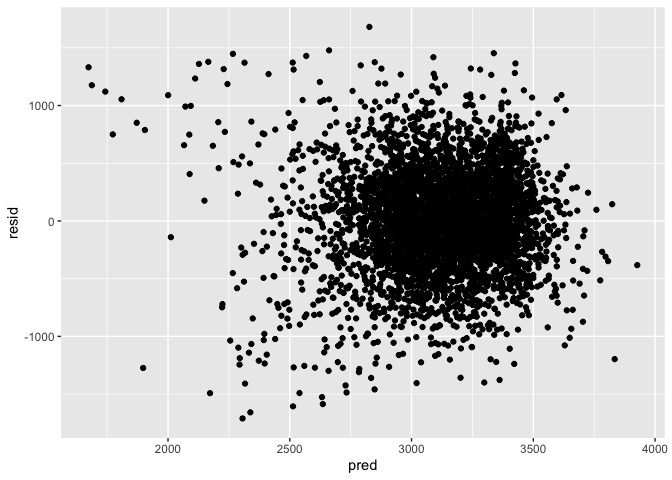
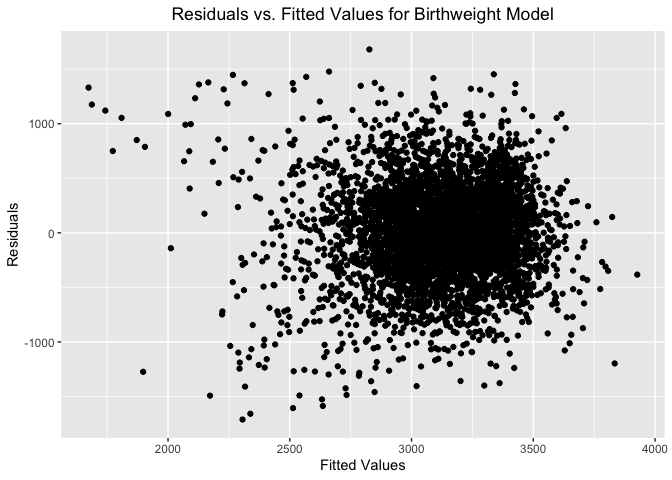
cross validation

diff --git a/p8105_hw6_sm4594.md b/p8105_hw6_sm4594.md
@@ -7,16 +7,36 @@ Sophia Miller
 library(tidyverse)
 ```
 
-    ## ── Attaching packages ───────────── tidyverse 1.2.1 ──
+    ## ── Attaching packages ────────────────────────────────────────────────── tidyverse 1.2.1 ──
 
     ## ✔ ggplot2 3.2.1     ✔ purrr   0.3.2
     ## ✔ tibble  2.1.3     ✔ dplyr   0.8.3
     ## ✔ tidyr   1.0.0     ✔ stringr 1.4.0
     ## ✔ readr   1.3.1     ✔ forcats 0.4.0
 
-    ## ── Conflicts ──────────────── tidyverse_conflicts() ──
+    ## ── Conflicts ───────────────────────────────────────────────────── tidyverse_conflicts() ──
     ## ✖ dplyr::filter() masks stats::filter()
     ## ✖ dplyr::lag()    masks stats::lag()
+
+``` r
+library(modelr)
+library(mgcv)
+```
+
+    ## Loading required package: nlme
+
+    ## 
+    ## Attaching package: 'nlme'
+
+    ## The following object is masked from 'package:dplyr':
+    ## 
+    ##     collapse
+
+    ## This is mgcv 1.8-28. For overview type 'help("mgcv-package")'.
+
+``` r
+set.seed(1)
+```
 
 # Problem 1
 
@@ -204,7 +224,13 @@ birthweight_res = modelr::add_residuals(birthweight_data, fit_final)
 
 birthweight_res_pred = modelr::add_predictions(birthweight_res, fit_final)
 
-ggplot(birthweight_res_pred, aes(x = pred, y = resid)) + geom_point()
+ggplot(birthweight_res_pred, aes(x = pred, y = resid)) + geom_point() +
+  labs(
+    title = "Residuals vs. Fitted Values for Birthweight Model",
+    x = "Fitted Values",
+    y = "Residuals"
+  ) +
+  theme(plot.title = element_text(hjust = 0.5))
 ```
 
 ![](p8105_hw6_sm4594_files/figure-gfm/residuals_plot-1.png)<!-- -->
@@ -215,4 +241,21 @@ Make comparison models:
 fit_compare = lm(bwt ~ blength + gaweeks, data = birthweight_data)
 
 fit_compare1 = lm(bwt ~ bhead + blength + babysex, data = birthweight_data)
+```
+
+Cross validation:
+
+``` r
+cv_df = 
+  crossv_mc(birthweight_data, 100) %>% 
+  mutate(
+    fit_final = map(train, ~lm(bwt ~ gaweeks + mrace + ppbmi + smoken, data = .x)),
+    fit_compare = map(train, ~lm(bwt ~ blength + gaweeks, data = .x)),
+    fit_compare1 = map(train, ~lm(bwt ~ bhead + blength + babysex, data = .x))
+    ) %>% 
+  mutate(
+    rmse_final = map2_dbl(fit_final, test, ~rmse(model = .x, data = .y)),
+    rmse_compare = map2_dbl(fit_compare, test, ~rmse(model = .x, data = .y)),
+    rmse_compare1 = map2_dbl(fit_compare1, test, ~rmse(model = .x, data = .y))
+    )
 ```
